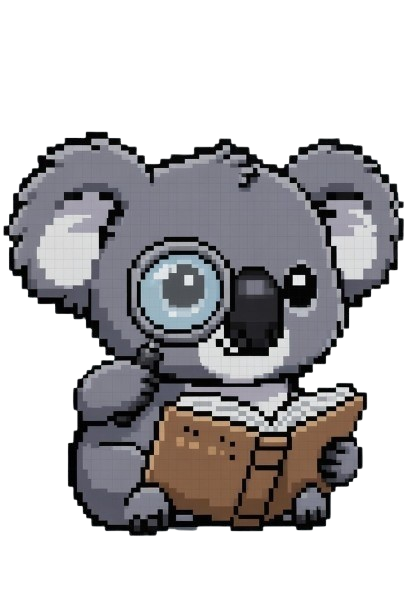
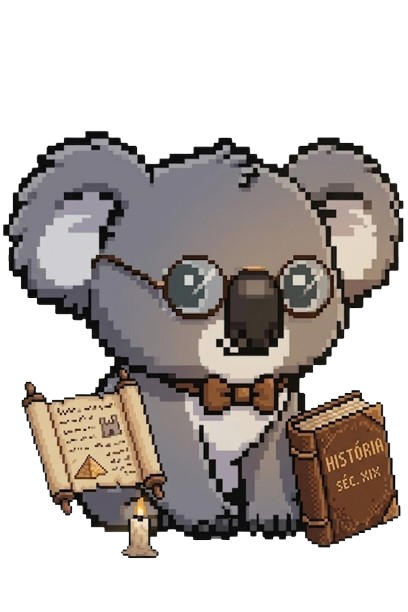
Alterando nomes, imagens e button

diff --git a/materias.html b/materias.html
@@ -27,67 +27,67 @@
     
     <div class="subjects-container">
         <div class="card">
-            <img src="img/matematica.png" alt="">
-            <button class="subjects-button">Matemática</button>
+            <img src="img/matematica.png" alt="Koala Matematico">
+            <button class="subjects-button" id="matematica"><a href="conteudo.html">Matemática</a></button>
         </div>
         
         <div class="card">
-            <img src="img/WhatsApp_Image_2026-03-03_at_16.57.28__1_-removebg-preview.png" alt="">
-            <button class="subjects-button">Português</button>
+            <img src="img/portugues.png" alt="Koala Portugues">
+            <button class="subjects-button" id="portugues"><a href="conteudo.html">Português</a></button>
         </div>
 
         <div class="card">
-            <img src="img/WhatsApp_Image_2026-03-03_at_16.57.28__1_-removebg-preview.png" alt="">
-            <button class="subjects-button">Física</button>
+            <img src="img/fisica.png" alt="Koala Fisico">
+            <button class="subjects-button" id="fisica"><a href="conteudo.html">Física</a></button>
         </div>
 
         <div class="card">
-            <img src="img/quimica.png" alt="">
-            <button class="subjects-button">Química</button>
+            <img src="img/quimica.png" alt="Koala Quimico">
+            <button class="subjects-button" id="quimica"><a href="conteudo.html">Química</a></button>
         </div>
     </div>
 
     <div class="subjects-container">
         <div class="card">
-            <img src="img/biologo.png" alt="">
-            <button class="subjects-button">Biologia</button>
+            <img src="img/biologo.png" alt="Koala Biologo">
+            <button class="subjects-button" id="biologia"><a href="conteudo.html">Biologia</a></button>
         </div>
         
         <div class="card">
-            <img src="img/historia.png" alt="">
-            <button class="subjects-button">História</button>
+            <img src="img/historia.png" alt="Koala Históriador">
+            <button class="subjects-button" id="historia"><a href="conteudo.html">História</a></button>
         </div>
 
         <div class="card">
-            <img src="img/WhatsApp_Image_2026-03-03_at_16.57.28__1_-removebg-preview.png" alt="">
-            <button class="subjects-button">Geografia</button>
+            <img src="img/geografia.png" alt="Koala Geografo">
+            <button class="subjects-button" id="geografia"><a href="conteudo.html">Geografia</a></button>
         </div>
 
         <div class="card">
-            <img src="img/WhatsApp_Image_2026-03-03_at_16.57.28__1_-removebg-preview.png" alt="">
-            <button class="subjects-button">Inglês</button>
+            <img src="img/ingles.png" alt="Koala Inglês">
+            <button class="subjects-button" id="ingles"><a href="conteudo.html">Inglês</a></button>
         </div>
     </div>
 
     <div class="subjects-container">
         <div class="card">
-            <img src="img/WhatsApp_Image_2026-03-03_at_16.57.28__1_-removebg-preview.png" alt="">
-            <button class="subjects-button">Artes</button>
+            <img src="img/artes.png" alt="Koala Artistico">
+            <button class="subjects-button" id="artes"><a href="conteudo.html">Artes</a></button>
         </div>
 
         <div class="card">
-            <img src="img/WhatsApp_Image_2026-03-03_at_16.57.28__1_-removebg-preview.png" alt="">
-            <button class="subjects-button">Espanhol</button>
+            <img src="img/espanhol.png" alt="Koala Espanhol">
+            <button class="subjects-button" id="espanhol"><a href="conteudo.html">Espanhol</a></button>
         </div>
 
         <div class="card">
-            <img src="img/WhatsApp_Image_2026-03-03_at_16.57.28__1_-removebg-preview.png" alt="">
-            <button class="subjects-button">Filosofia</button>
+            <img src="img/filosofia.png" alt="Koala Filosofico">
+            <button class="subjects-button" id="filosofia"><a href="conteudo.html">Filosofia</a></button>
         </div>
 
         <div class="card">
-            <img src="img/WhatsApp_Image_2026-03-03_at_16.57.28__1_-removebg-preview.png" alt="">
-            <button class="subjects-button">Sociologia</button>
+            <img src="img/sociologia.png" alt="Koala Sociologo">
+            <button class="subjects-button" id="sociologia"><a href="conteudo.html">Sociologia</a></button>
         </div>
     </div>
 

diff --git a/src/styles/materias.css b/src/styles/materias.css
@@ -18,3 +18,8 @@ img{
     width: 300px;
     height: 300px;
 }
+
+.subjects-container button a{
+    color: var(--text-secundary);
+    text-decoration: none;
+}
